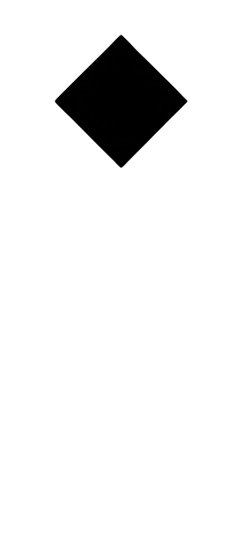
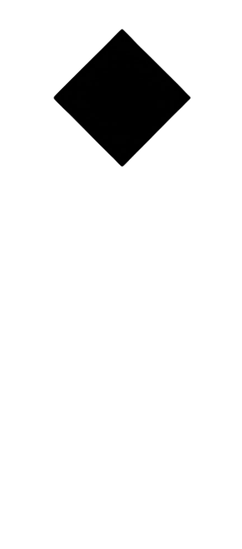
Fixed hero

diff --git a/src/styles.css b/src/styles.css
@@ -689,10 +689,11 @@
 }
 
 /* Final landing-stage overrides keep the intrinsic house and door coordinate space together. */
-.home-app .home-hero-visual{position:relative;padding:0;overflow:hidden;background:transparent}
-.home-app .home-entryway-demo{position:relative;width:100%;max-width:100%;height:auto;min-height:0;aspect-ratio:1254/1254;overflow:hidden;border:0;border-radius:0;background:transparent;box-shadow:none}
-.home-app .home-entryway-image{position:relative;inset:auto;display:block;width:100%;height:auto;object-fit:contain;object-position:center}
-.home-app .home-entryway-overlay{position:absolute;inset:0}
+.home-app .home-hero{grid-template-rows:minmax(0,1fr)}
+.home-app .home-hero-visual{position:relative;align-self:stretch;height:100%;min-height:0;padding:0;margin:0;overflow:hidden;background:transparent}
+.home-app .home-entryway-demo{position:absolute;inset:0;width:100%;max-width:none;height:100%;min-height:0;margin:0;padding:0;line-height:0;aspect-ratio:auto;transform:none;overflow:hidden;border:0;border-radius:0;background:transparent;box-shadow:none}
+.home-app .home-entryway-image{position:absolute;inset:0;display:block;width:100%;height:100%;margin:0;padding:0;object-fit:cover;object-position:center}
+.home-app .home-entryway-overlay{position:absolute;inset:auto 0;width:100%;height:auto;aspect-ratio:1254/1254;top:50%;transform:translateY(-50%)}
 .home-app .hero-door-overlay{position:absolute;overflow:hidden;background:transparent;transform:none;transform-origin:center}
 .home-app .home-entryway-door-slot .mapped-preview-door{transform:none!important;transform-origin:center bottom!important}
 .home-app .home-entryway-door-slot .door,.home-app .home-entryway-door-slot .door-style-image,.home-app .home-entryway-door-slot .door-finish-layer,.home-app .home-entryway-door-slot .door-detail-image,.home-app .home-entryway-door-slot .door-stain-highlight,.home-app .home-entryway-door-slot .door-glass-overlay,.home-app .home-entryway-door-slot .door-default-glass-overlay,.home-app .home-entryway-door-slot .hardware{position:absolute!important;inset:0!important;width:100%!important;height:100%!important;transform:none!important;transform-origin:center!important}